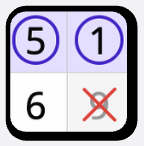
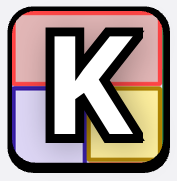
Update timer and pause flow

diff --git a/app.js b/app.js
@@ -1,5 +1,6 @@
 const DEFAULT_BOARD_SIZE = 5;
 const ONE_DAY = 24 * 60 * 60 * 1000;
+const TIMER_SAVE_INTERVAL = 250;
 const START_DATE = new Date("2026-01-01T00:00:00");
 const FIVE_BY_FIVE_LAYOUTS = [
   [
@@ -53,9 +54,12 @@ const boardEl = document.querySelector("#board");
 const timerEl = document.querySelector("#timer");
 const challengeLabel = document.querySelector("#challengeLabel");
 const pauseDialog = document.querySelector("#pauseDialog");
+const pauseTitle = document.querySelector("#pauseTitle");
 const winDialog = document.querySelector("#winDialog");
 const winStats = document.querySelector("#winStats");
 const copyResultButton = document.querySelector("#copyResultButton");
+const continueButton = document.querySelector("#continueButton");
+const restartFromPauseButton = document.querySelector("#restartFromPause");
 const mode5Button = document.querySelector("#mode5Button");
 const mode10Button = document.querySelector("#mode10Button");
 
@@ -70,6 +74,7 @@ let timerId = null;
 let paused = false;
 let completed = false;
 let lastTick = Date.now();
+let lastTimerSave = Date.now();
 
 function todayKey() {
   const now = new Date();
@@ -189,6 +194,7 @@ function storageKey() {
 }
 
 function saveState() {
+  if (!puzzle) return;
   localStorage.setItem(storageKey(), JSON.stringify({
     selections,
     elapsed,
@@ -318,9 +324,11 @@ function removeOverlappingSelections(rect) {
 }
 
 function formatTime(seconds) {
-  const mins = Math.floor(seconds / 60);
-  const secs = seconds % 60;
-  return `${String(mins).padStart(2, "0")}:${String(secs).padStart(2, "0")}`;
+  const totalCentiseconds = Math.max(0, Math.floor(seconds * 100));
+  const mins = Math.floor(totalCentiseconds / 6000);
+  const secs = Math.floor((totalCentiseconds % 6000) / 100);
+  const centiseconds = totalCentiseconds % 100;
+  return `${String(mins).padStart(2, "0")}:${String(secs).padStart(2, "0")}.${String(centiseconds).padStart(2, "0")}`;
 }
 
 function renderBoard() {
@@ -459,40 +467,46 @@ function isSolved() {
 }
 
 function resetDay() {
+  stopTimer();
   selections = defaultSelections();
   activeStart = null;
   previewRect = null;
   elapsed = 0;
   completed = false;
-  paused = false;
+  paused = true;
   lastTick = Date.now();
+  lastTimerSave = Date.now();
   localStorage.removeItem(storageKey());
-  winDialog.close();
-  pauseDialog.close();
+  if (winDialog.open) winDialog.close();
   paintBoard();
   renderStatus();
-  startTimer();
+  schedulePlayPrompt(false);
 }
 
 function tick() {
   const now = Date.now();
   if (!paused && !completed) {
-    const diff = Math.floor((now - lastTick) / 1000);
+    const diff = (now - lastTick) / 1000;
     if (diff > 0) {
       elapsed += diff;
-      lastTick += diff * 1000;
+      lastTick = now;
       renderStatus();
-      saveState();
+      if (now - lastTimerSave >= TIMER_SAVE_INTERVAL) {
+        saveState();
+        lastTimerSave = now;
+      }
     }
   } else {
     lastTick = now;
+    lastTimerSave = now;
   }
 }
 
 function startTimer() {
   stopTimer();
   lastTick = Date.now();
-  timerId = window.setInterval(tick, 500);
+  lastTimerSave = lastTick;
+  timerId = window.setInterval(tick, 50);
 }
 
 function stopTimer() {
@@ -500,18 +514,41 @@ function stopTimer() {
   timerId = null;
 }
 
+function setPauseActions(hasStarted) {
+  pauseTitle.textContent = hasStarted ? "JUEGO EN PAUSA" : `Kakiku ${puzzle.size}x${puzzle.size}`;
+  continueButton.textContent = hasStarted ? "Continuar" : "Jugar";
+  restartFromPauseButton.hidden = !hasStarted;
+}
+
+function openPlayPrompt(hasStarted = elapsed > 0) {
+  if (completed) return;
+  paused = true;
+  stopTimer();
+  setPauseActions(hasStarted);
+  pauseDialog.classList.remove("is-hidden");
+  pauseDialog.setAttribute("aria-hidden", "false");
+}
+
+function schedulePlayPrompt(hasStarted = elapsed > 0) {
+  paused = true;
+  stopTimer();
+  window.requestAnimationFrame(() => {
+    window.requestAnimationFrame(() => openPlayPrompt(hasStarted));
+  });
+}
+
 function openPause() {
   if (completed) return;
   tick();
-  paused = true;
-  stopTimer();
-  pauseDialog.showModal();
+  saveState();
+  openPlayPrompt(true);
 }
 
 function closePause() {
   if (completed) return;
   paused = false;
-  if (pauseDialog.open) pauseDialog.close();
+  pauseDialog.classList.add("is-hidden");
+  pauseDialog.setAttribute("aria-hidden", "true");
   startTimer();
 }
 
@@ -520,6 +557,8 @@ function completeGame() {
   completed = true;
   paused = false;
   stopTimer();
+  pauseDialog.classList.add("is-hidden");
+  pauseDialog.setAttribute("aria-hidden", "true");
   winStats.textContent = formatTime(elapsed);
   saveState();
   winDialog.showModal();
@@ -564,12 +603,14 @@ async function switchMode(size) {
   if (size === currentBoardSize && puzzle) return;
 
   tick();
+  saveState();
   stopTimer();
   currentBoardSize = size;
   activeStart = null;
   previewRect = null;
   paused = false;
-  if (pauseDialog.open) pauseDialog.close();
+  pauseDialog.classList.add("is-hidden");
+  pauseDialog.setAttribute("aria-hidden", "true");
   if (winDialog.open) winDialog.close();
 
   mode5Button.classList.toggle("active", size === 5);
@@ -585,27 +626,22 @@ async function switchMode(size) {
   loadState();
   renderBoard();
   renderStatus();
-  if (!completed) startTimer();
+  if (!completed) schedulePlayPrompt(elapsed > 0);
 }
 
 async function init() {
   initModeSwitch();
   challengeLabel.textContent = `Reto ${challengeNumber()}`;
-  await switchMode(DEFAULT_BOARD_SIZE);
 
   document.querySelector("#pauseButtonBottom").addEventListener("click", openPause);
-  document.querySelector("#continueButton").addEventListener("click", closePause);
-  document.querySelector("#resetButton").addEventListener("click", resetDay);
+  continueButton.addEventListener("click", closePause);
+  restartFromPauseButton.addEventListener("click", resetDay);
   copyResultButton.addEventListener("click", copyResult);
-  document.querySelector("#restartFromPause").addEventListener("click", resetDay);
-
-  pauseDialog.addEventListener("close", () => {
-    if (!completed && paused) closePause();
-  });
 
   document.addEventListener("visibilitychange", () => {
     if (document.hidden) {
       tick();
+      saveState();
       stopTimer();
     } else if (!completed && !paused) {
       startTimer();
@@ -613,6 +649,7 @@ async function init() {
   });
 
   preventBrowserZoom();
+  await switchMode(DEFAULT_BOARD_SIZE);
 }
 
 init();

diff --git a/index.html b/index.html
@@ -8,15 +8,15 @@
     <link rel="preconnect" href="https://fonts.gstatic.com" crossorigin />
     <link href="https://fonts.googleapis.com/css2?family=Noto+Sans:wght@400;700;800;900&display=swap" rel="stylesheet" />
     <link href="https://fonts.googleapis.com/css2?family=Material+Symbols+Rounded:opsz,wght,FILL,GRAD@24,400,0,0&display=swap" rel="stylesheet" />
-    <link rel="icon" type="image/png" href="icon.png" />
-    <link rel="apple-touch-icon" href="icon.png" />
+    <link rel="icon" type="image/png" href="icon.png?v=2" />
+    <link rel="apple-touch-icon" href="icon.png?v=2" />
     <link rel="stylesheet" href="styles.css" />
   </head>
   <body>
     <main class="app" aria-live="polite">
       <header class="topbar">
         <div class="brand">
-          <img class="brand-icon" src="icon.png" alt="" aria-hidden="true" />
+          <img class="brand-icon" src="icon.png?v=2" alt="" aria-hidden="true" />
           <div>
             <h1>Kakiku</h1>
             <p id="challengeLabel">Reto diario</p>
@@ -30,7 +30,7 @@
       </section>
 
       <section class="timer-row" aria-label="Tiempo de juego">
-        <time id="timer">00:00</time>
+        <time id="timer">00:00.00</time>
       </section>
 
       <section class="board-shell" aria-label="Tablero de Kakiku">
@@ -38,26 +38,23 @@
       </section>
 
       <section class="actions" aria-label="Acciones">
-        <button class="round-button reset" id="resetButton" type="button" aria-label="Reiniciar reto">
-          <span class="material-symbols-rounded" aria-hidden="true">delete</span>
-        </button>
         <button class="round-button pause" id="pauseButtonBottom" type="button" aria-label="Pausar">
           <span class="material-symbols-rounded" aria-hidden="true">pause</span>
         </button>
       </section>
 
-      <dialog class="modal" id="pauseDialog" aria-labelledby="pauseTitle">
-        <form method="dialog" class="modal-card">
+      <section class="pause-overlay is-hidden" id="pauseDialog" aria-labelledby="pauseTitle" aria-hidden="true">
+        <div class="modal-card">
           <h2 id="pauseTitle">JUEGO EN PAUSA</h2>
-          <button class="primary-action" id="continueButton" value="continue" type="button">Continuar</button>
-          <button class="secondary-action" id="restartFromPause" value="restart" type="button">Reiniciar Día</button>
-        </form>
-      </dialog>
+          <button class="primary-action" id="continueButton" value="continue" type="button">Jugar</button>
+          <button class="secondary-action" id="restartFromPause" value="restart" type="button" hidden>Reiniciar Día</button>
+        </div>
+      </section>
 
       <dialog class="modal" id="winDialog" aria-labelledby="winTitle">
         <form method="dialog" class="modal-card compact">
           <h2 id="winTitle">RETO COMPLETADO</h2>
-          <p id="winStats">00:00</p>
+          <p id="winStats">00:00.00</p>
           <button class="primary-action" id="copyResultButton" value="copy" type="button">Copiar resultado</button>
           <button class="primary-action" value="done" type="submit">Cerrar</button>
         </form>

diff --git a/styles.css b/styles.css
@@ -169,6 +169,7 @@ button {
 }
 
 .board {
+  --board-size: 5;
   --tile-size: var(--tile-size-5);
   width: calc(var(--tile-size) * var(--board-size));
   display: grid;
@@ -315,6 +316,25 @@ button {
   background: var(--orange);
 }
 
+.pause-overlay {
+  position: fixed;
+  inset: 0;
+  z-index: 20;
+  padding: 20px;
+  display: grid;
+  place-items: center;
+  background: rgba(244, 244, 246, 0.74);
+  backdrop-filter: blur(4px);
+}
+
+.pause-overlay.is-hidden {
+  display: none;
+}
+
+.pause-overlay .modal-card {
+  width: min(calc(100vw - 80px), 400px);
+}
+
 .modal {
   width: min(calc(100vw - 80px), 400px);
   margin: auto;
@@ -417,6 +437,10 @@ button {
   }
 
   .modal {
+    width: min(calc(100vw - 36px), 360px);
+  }
+
+  .pause-overlay .modal-card {
     width: min(calc(100vw - 36px), 360px);
   }
 